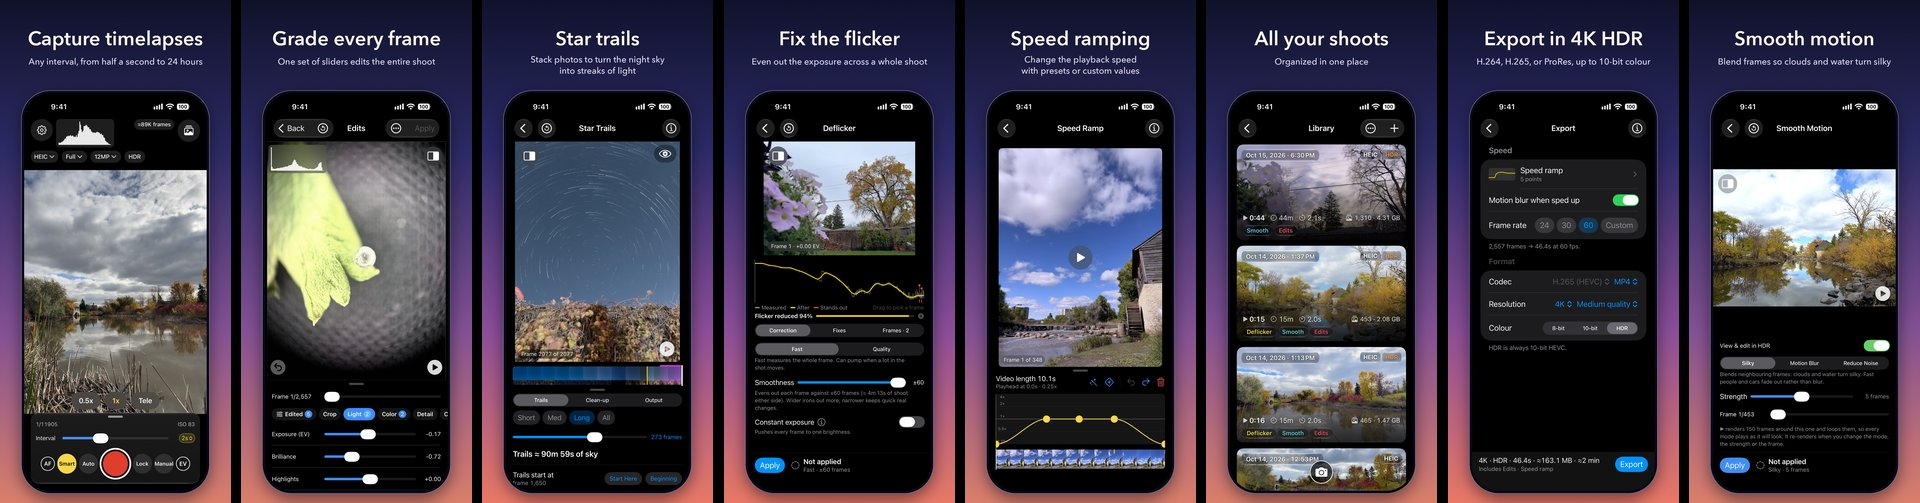
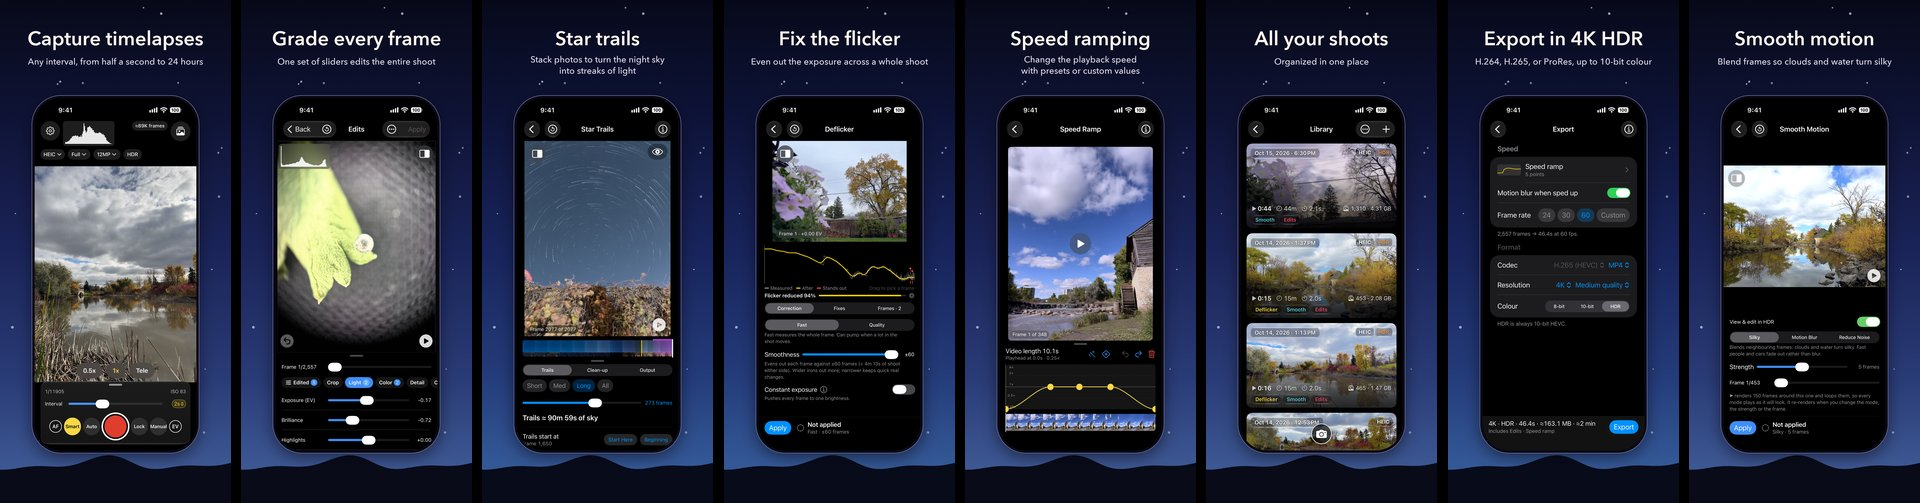
Overview: the captioned screens on the night sky with hills (D-702)

diff --git a/index.html b/index.html
@@ -75,8 +75,8 @@
 </div>
 
 <picture class="overview">
-  <source srcset="img/overview-dark.jpg" media="(prefers-color-scheme: dark)">
-  <img src="img/overview-light.jpg" width="1920" height="503" loading="lazy" alt="All eight screens side by side: capture, Edits, Star Trails, Deflicker, Speed Ramp, the Library, Export and Smooth Motion.">
+  <source srcset="img/overview-dark.jpg?v=2026-10-20e" media="(prefers-color-scheme: dark)">
+  <img src="img/overview-light.jpg?v=2026-10-20e" width="1920" height="503" loading="lazy" alt="All eight screens side by side: capture, Edits, Star Trails, Deflicker, Speed Ramp, the Library, Export and Smooth Motion.">
 </picture>
 
 <p class="look">Light</p>
